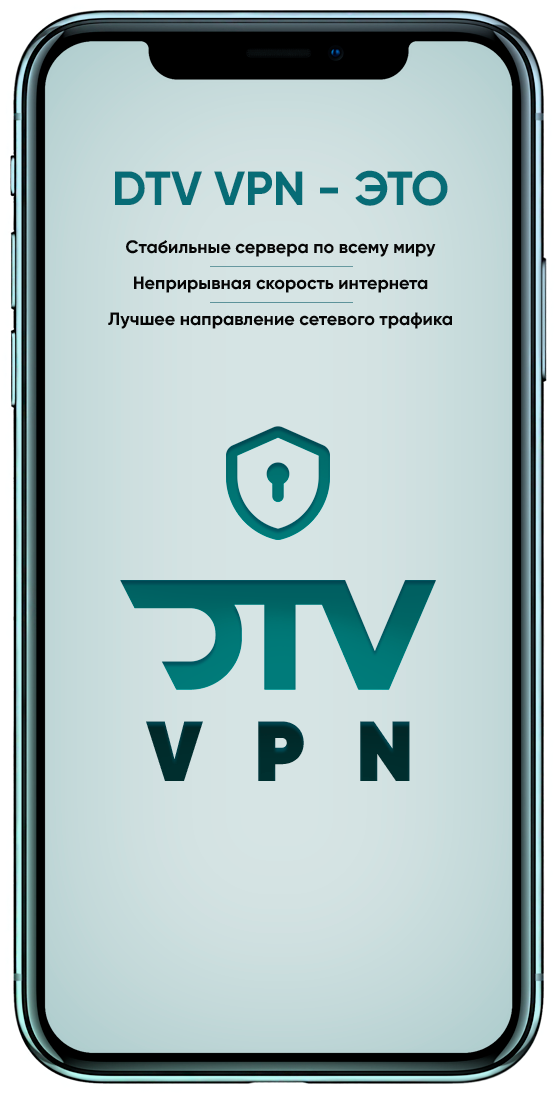
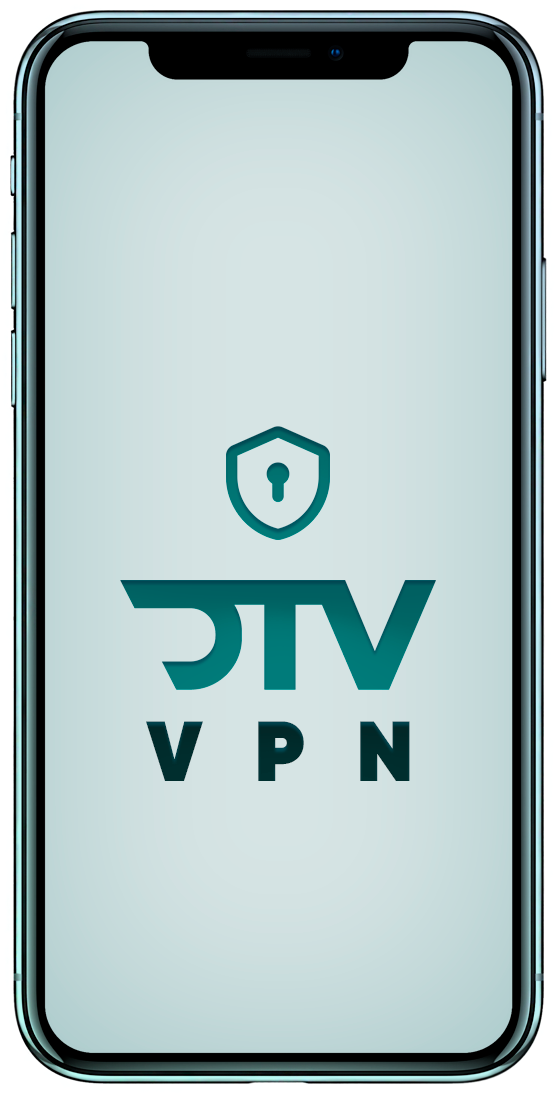
Desktop. Added phone-text block

diff --git a/assets/css/styles.min.css b/assets/css/styles.min.css
@@ -59,6 +59,28 @@ body {
   padding-left: 180px;
 }
 
+.phone-wrapper {
+  position: relative;
+}
+
+.phone-title {
+  font-size: 28px;
+  color: #3e6c75;
+}
+
+.phone-text {
+  z-index: 10;
+  position: absolute;
+  top: 80px;
+  left: 60px;
+  text-align: center;
+  color: #0e0e0e;
+}
+
+.phone-text__item {
+  font-size: 12px;
+}
+
 .phone {
   position: relative;
   top: 0;
@@ -479,4 +501,4 @@ h3 {
     margin-bottom: 150px;
   }
 }
[2 lines of base64/hex data omitted]

diff --git a/assets/index.html b/assets/index.html
@@ -10,7 +10,16 @@
   <body>
     <div class="container">
       <header class="content">
-        <img class="phone" src="images/phone.png" alt="Смартфон" />
+        <div class="phone-wrapper">
+          <img class="phone" src="images/phone.png" alt="Смартфон" />
+          <div class="phone-text">
+            <h1 class="phone-title">DTV VPN - ЭТО</h1>
+            <p class="phone-text__item">Стабильные сервера по всему миру</p>
+            <p class="phone-text__item">Неприрывная скорость интернета</p>
+            <p class="phone-text__item">Лучшее направление сетевого трафика</p>
+          </div>
+        </div>
+
         <div class="desc">
           <div class="needs">
             <h2 class="content-title">ЕСЛИ ТЕБЕ</h2>

diff --git a/assets/scss/styles.scss b/assets/scss/styles.scss
@@ -47,6 +47,28 @@ body {
   padding-left: 180px;
 }
 
+.phone-wrapper {
+  position: relative;
+}
+
+.phone-title {
+  font-size: 28px;
+  color: $color-green;
+}
+
+.phone-text {
+  z-index: 10;
+  position: absolute;
+  top: 80px;
+  left: 60px;
+  text-align: center;
+  color: $color-black;
+}
+
+.phone-text__item {
+  font-size: 12px;
+}
+
 .phone {
   position: relative;
   top: 0;

diff --git a/assets/scss/_vars.scss b/assets/scss/_vars.scss
@@ -1,2 +1,4 @@
 $color-primary: #abfcff;
+$color-black: #0e0e0e;
 $color-secondary: #ffbb00;
+$color-green: #3e6c75;
